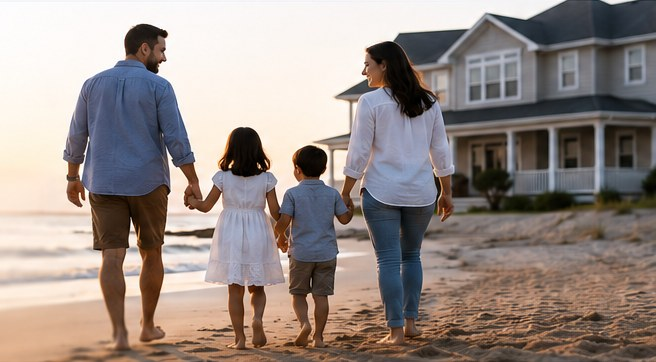
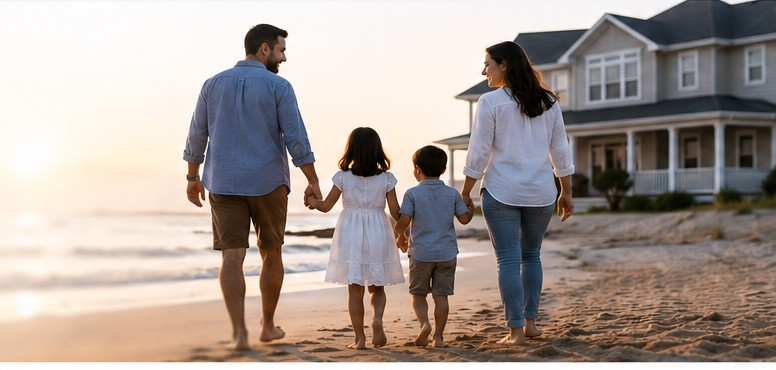
Add files via upload

diff --git a/index.html b/index.html
@@ -1,16 +1,161 @@
-<!doctype html><html lang="en"><head><meta charset="utf-8"><meta name="viewport" content="width=device-width,initial-scale=1"><meta name="description" content="BlueGene Insurance Services — personalized insurance solutions in California."><title>BlueGene Insurance Services</title><link rel="stylesheet" href="styles.css"></head><body>
-<header><div class="wrap nav"><img src="assets/bluegene-logo.png" alt="BlueGene Insurance Services"><nav><a href="#home" data-en="Home" data-zh="首页">Home</a><a href="#about" data-en="About Us" data-zh="关于我们">About Us</a><a href="#services" data-en="Insurance Solutions" data-zh="保险方案">Insurance Solutions</a><a href="#resources" data-en="Resources" data-zh="资料">Resources</a><a href="#contact" data-en="Contact Us" data-zh="联系我们">Contact Us</a><button id="lang">中文</button><a class="btn" href="mailto:agent@bluegeneins.com?subject=Quote Request" data-en="Get a Quote" data-zh="获取报价">Get a Quote</a></nav></div></header>
-<section id="home" class="hero"><div class="wrap herogrid"><div class="copy"><p class="eyebrow" data-en="PROTECT WHAT MATTERS MOST" data-zh="守护您最重要的一切">PROTECT WHAT MATTERS MOST</p><h1 data-en="Insurance Solutions You Can Trust" data-zh="值得信赖的保险方案">Insurance Solutions You Can Trust</h1><p class="lead" data-en="At BlueGene Insurance Services, we provide personalized insurance solutions to protect your family, your assets, and your future." data-zh="BlueGene Insurance Services 为您提供个性化保险方案，守护您的家庭、资产与未来。">At BlueGene Insurance Services, we provide personalized insurance solutions to protect your family, your assets, and your future.</p><div class="actions"><a class="btn" href="mailto:agent@bluegeneins.com?subject=Quote Request" data-en="Get a Free Quote" data-zh="免费获取报价">Get a Free Quote</a><a class="ghost" href="#services" data-en="Learn More" data-zh="了解更多">Learn More</a></div></div><div class="heroimg"></div></div></section>
-<section id="services"><div class="wrap layout"><div class="main"><p class="eyebrow center" data-en="OUR SERVICES" data-zh="我们的服务">OUR SERVICES</p><h2 class="title" data-en="Coverage for Life and Business" data-zh="生活与家庭的全面保障">Coverage for Life and Business</h2><div class="cards">
-<article><i>🚗</i><h3 data-en="Auto Insurance" data-zh="汽车保险">Auto Insurance</h3><p data-en="Coverage options designed to help protect your vehicles and drivers." data-zh="为您的车辆和驾驶人提供合适的保险保障。">Coverage options designed to help protect your vehicles and drivers.</p></article>
-<article><i>⌂</i><h3 data-en="Home Insurance" data-zh="房屋保险">Home Insurance</h3><p data-en="Protection for your home, personal property, and everyday peace of mind." data-zh="为房屋、个人财产及日常生活提供安心保障。">Protection for your home, personal property, and everyday peace of mind.</p></article>
-<article><i>▣</i><h3 data-en="Annuity" data-zh="年金保险">Annuity</h3><p data-en="Long-term income and retirement planning solutions for your future." data-zh="为退休生活及长期收入规划提供解决方案。">Long-term income and retirement planning solutions for your future.</p></article>
-<article><i>♥</i><h3 data-en="Life Insurance" data-zh="人寿保险">Life Insurance</h3><p data-en="Options that can help support your family's long-term financial security." data-zh="帮助您为家庭建立长期的财务保障。">Options that can help support your family's long-term financial security.</p></article>
-<a href="https://www.coveredca.com/" target="_blank"><article><i>♥</i><h3 data-en="Health Insurance" data-zh="健康保险">Health Insurance</h3><p data-en="Plans to help cover medical expenses and support your well-being." data-zh="帮助承担医疗费用，为您和家人的健康提供保障。">Plans to help cover medical expenses and support your well-being.</p></article></a>
-<a href="docs/Patriot-Exchange-Student-Chinese.pdf" target="_blank"><article><i>◎</i><h3 data-en="International Student Insurance" data-zh="国际留学生保险">International Student Insurance</h3><p data-en="Specialized coverage for international students studying in the U.S." data-zh="为在美国学习的国际学生提供专门的医疗保障选择。">Specialized coverage for international students studying in the U.S.</p></article></a>
-<a href="https://www.imglobal.com/img-producer-insurance-plans/patriot-america-plus?IMGAC=546873&svi=1" target="_blank"><article><i>✈</i><h3 data-en="Travel Medical Insurance" data-zh="旅行医疗保险">Travel Medical Insurance</h3><p data-en="Protection for unexpected medical events while you're traveling near or far." data-zh="为境内外旅行中的突发医疗需求提供保障选择。">Protection for unexpected medical events while you're traveling near or far.</p></article></a>
-<article><i>◇</i><h3 data-en="Medicare Insurance" data-zh="Medicare 医疗保险">Medicare Insurance</h3><p data-en="Guidance to help you understand Medicare coverage options." data-zh="帮助您了解并选择适合自己的 Medicare 保障方案。">Guidance to help you understand Medicare coverage options.</p></article>
-</div></div><aside id="contact"><h2 data-en="Get in Touch" data-zh="联系我们">Get in Touch</h2><p data-en="We're here to help you find the right coverage." data-zh="我们愿意帮助您找到合适的保险保障。">We're here to help you find the right coverage.</p><div class="lines"><a href="tel:+16266888030">☎　(626) 688-8030</a><a href="mailto:agent@bluegeneins.com">✉　agent@bluegeneins.com</a><span>◎　www.bluegeneins.com</span><span>●　Serving California</span></div><hr><h3 data-en="Scan to Connect with Us" data-zh="扫码添加微信">Scan to Connect with Us</h3><img src="assets/wechat-qr.jpg" alt="WeChat QR"><p data-en="Scan the QR code to add us on WeChat and get in touch instantly!" data-zh="扫描二维码添加微信，随时联系我们！">Scan the QR code to add us on WeChat and get in touch instantly!</p></aside></div></section>
-<section id="about" class="band"><div class="wrap"><h2 data-en="Personal Service. Clear Guidance." data-zh="贴心服务 · 清晰建议">Personal Service. Clear Guidance.</h2><p data-en="BlueGene Insurance Services helps individuals and families understand their insurance choices with clear, personalized support." data-zh="BlueGene Insurance Services 通过清晰、个性化的服务，帮助个人与家庭了解并选择合适的保险方案。">BlueGene Insurance Services helps individuals and families understand their insurance choices with clear, personalized support.</p></div></section>
-<section id="resources" class="resources"><div class="wrap"><h2 data-en="Resources" data-zh="保险资料">Resources</h2><a href="docs/Patriot-Travel-Medical-Chinese.pdf" target="_blank" data-en="Travel Medical Insurance — Chinese Brochure" data-zh="旅行医疗保险 — 中文资料">Travel Medical Insurance — Chinese Brochure</a><a href="docs/Patriot-Exchange-Student-Chinese.pdf" target="_blank" data-en="International Student Insurance — Chinese Brochure" data-zh="国际留学生保险 — 中文资料">International Student Insurance — Chinese Brochure</a></div></section>
-<footer><div class="wrap">© 2026 BlueGene Insurance Services · agent@bluegeneins.com</div></footer><script>const b=document.getElementById("lang");let z=false;b.onclick=()=>{z=!z;document.querySelectorAll("[data-en]").forEach(e=>e.textContent=z?e.dataset.zh:e.dataset.en);b.textContent=z?"English":"中文"}</script></body></html>
+<!doctype html>
+<html lang="en">
+<head>
+<meta charset="utf-8">
+<meta name="viewport" content="width=device-width,initial-scale=1">
+<title>BlueGene Insurance Services</title>
+<meta name="description" content="Personalized insurance solutions for individuals and families in California.">
+<link rel="stylesheet" href="styles.css">
+</head>
+<body>
+<header class="topbar">
+  <div class="shell nav">
+    <a class="logo" href="#home"><img src="assets/bluegene-logo.png" alt="BlueGene Insurance Services"></a>
+    <nav class="menu">
+      <a class="active" href="#home" data-en="Home" data-zh="首页">Home</a>
+      <a href="#about" data-en="About Us" data-zh="关于我们">About Us</a>
+      <a href="#services" data-en="Insurance Solutions" data-zh="保险方案">Insurance Solutions</a>
+      <a href="#resources" data-en="Resources" data-zh="资料">Resources</a>
+      <a href="#contact" data-en="Contact Us" data-zh="联系我们">Contact Us</a>
+      <button class="language" id="lang">中文</button>
+      <a class="quote-top" href="mailto:agent@bluegeneins.com?subject=Quote Request" data-en="Get a Quote" data-zh="获取报价">Get a Quote</a>
+    </nav>
+  </div>
+</header>
+
+<main>
+<section class="hero" id="home">
+  <div class="shell hero-inner">
+    <div class="hero-copy">
+      <div class="kicker" data-en="PROTECT WHAT MATTERS MOST" data-zh="守护您最重要的一切">PROTECT WHAT MATTERS MOST</div>
+      <h1 data-en="Insurance Solutions You Can Trust" data-zh="值得信赖的保险方案">Insurance Solutions You Can Trust</h1>
+      <p data-en="At BlueGene Insurance Services, we provide personalized insurance solutions to protect your family, your assets, and your future."
+         data-zh="BlueGene Insurance Services 为您提供个性化保险方案，守护您的家庭、资产与未来。">
+        At BlueGene Insurance Services, we provide personalized insurance solutions to protect your family, your assets, and your future.
+      </p>
+      <div class="hero-buttons">
+        <a class="primary" href="mailto:agent@bluegeneins.com?subject=Quote Request" data-en="Get a Free Quote" data-zh="免费获取报价">Get a Free Quote</a>
+        <a class="secondary" href="#services" data-en="Learn More" data-zh="了解更多">Learn More</a>
+      </div>
+    </div>
+    <div class="hero-photo" aria-label="Family"></div>
+  </div>
+</section>
+
+<section class="services" id="services">
+  <div class="shell services-grid">
+    <div class="service-main">
+      <div class="section-kicker" data-en="OUR SERVICES" data-zh="我们的服务">OUR SERVICES</div>
+      <h2 data-en="Coverage for Life and Business" data-zh="生活与家庭的全面保障">Coverage for Life and Business</h2>
+      <div class="gold-line"></div>
+
+      <div class="cards">
+        <article class="card">
+          <div class="round-icon">🚗</div>
+          <h3 data-en="Auto Insurance" data-zh="汽车保险">Auto Insurance</h3>
+          <p data-en="Coverage options designed to help protect your vehicles and drivers." data-zh="为您的车辆和驾驶人提供合适的保险保障。">Coverage options designed to help protect your vehicles and drivers.</p>
+        </article>
+
+        <article class="card">
+          <div class="round-icon home-icon">◆</div>
+          <h3 data-en="Home Insurance" data-zh="房屋保险">Home Insurance</h3>
+          <p data-en="Protection for your home, personal property, and everyday peace of mind." data-zh="为房屋、个人财产及日常生活提供安心保障。">Protection for your home, personal property, and everyday peace of mind.</p>
+        </article>
+
+        <article class="card">
+          <div class="round-icon">♥</div>
+          <h3 data-en="Life Insurance" data-zh="人寿保险">Life Insurance</h3>
+          <p data-en="Options that can help support your family's long-term financial security." data-zh="帮助您为家庭建立长期的财务保障。">Options that can help support your family's long-term financial security.</p>
+        </article>
+
+        <article class="card">
+          <div class="round-icon">$</div>
+          <h3 data-en="Annuity" data-zh="年金保险">Annuity</h3>
+          <p data-en="Long-term income and retirement planning solutions for your future." data-zh="为退休生活及长期收入规划提供解决方案。">Long-term income and retirement planning solutions for your future.</p>
+        </article>
+
+        <a class="card-link" href="https://www.coveredca.com/" target="_blank" rel="noopener">
+          <article class="card">
+            <div class="round-icon">✚</div>
+            <h3 data-en="Health Insurance" data-zh="健康保险">Health Insurance</h3>
+            <p data-en="Plans to help cover medical expenses and support your well-being." data-zh="帮助承担医疗费用，为您和家人的健康提供保障。">Plans to help cover medical expenses and support your well-being.</p>
+          </article>
+        </a>
+
+        <a class="card-link" href="docs/Patriot-Exchange-Student-Chinese.pdf" target="_blank">
+          <article class="card">
+            <div class="round-icon">◎</div>
+            <h3 data-en="International Student Insurance" data-zh="国际留学生保险">International Student Insurance</h3>
+            <p data-en="Specialized medical coverage options for international students and exchange participants." data-zh="为国际学生及交流项目参与者提供专门的医疗保障选择。">Specialized medical coverage options for international students and exchange participants.</p>
+          </article>
+        </a>
+
+        <a class="card-link" href="https://www.imglobal.com/img-producer-insurance-plans/patriot-america-plus?IMGAC=546873&svi=1" target="_blank" rel="noopener">
+          <article class="card">
+            <div class="round-icon">✈</div>
+            <h3 data-en="Travel Medical Insurance" data-zh="旅行医疗保险">Travel Medical Insurance</h3>
+            <p data-en="Temporary medical protection for individuals, families, and groups traveling outside their home country." data-zh="为个人、家庭及团体的国际旅行提供临时医疗保障选择。">Temporary medical protection for individuals, families, and groups traveling outside their home country.</p>
+          </article>
+        </a>
+
+        <article class="card">
+          <div class="round-icon">◇</div>
+          <h3 data-en="Medicare Insurance" data-zh="Medicare 医疗保险">Medicare Insurance</h3>
+          <p data-en="Guidance to help you understand Medicare coverage options." data-zh="帮助您了解并选择适合自己的 Medicare 保障方案。">Guidance to help you understand Medicare coverage options.</p>
+        </article>
+      </div>
+    </div>
+
+    <aside class="contact-card" id="contact">
+      <h2 data-en="Get in Touch" data-zh="联系我们">Get in Touch</h2>
+      <p class="intro" data-en="We're here to help you find the right coverage." data-zh="我们愿意帮助您找到合适的保险保障。">We're here to help you find the right coverage.</p>
+      <div class="contact-list">
+        <a href="tel:+16264744541">☎ <span>+1 (626) 474-4541</span></a>
+        <a href="mailto:agent@bluegeneins.com">✉ <span>agent@bluegeneins.com</span></a>
+        <span>◎ <span>www.bluegeneins.com</span></span>
+        <span>● <span>Serving California</span></span>
+      </div>
+      <div class="divider"></div>
+      <h3 data-en="Scan to Connect with Us" data-zh="扫码添加微信">Scan to Connect with Us</h3>
+      <img class="qr" src="assets/wechat-qr.jpg" alt="WeChat QR code">
+      <p class="qr-text" data-en="Scan the QR code to add us on WeChat and get in touch instantly!" data-zh="扫描二维码添加微信，随时联系我们！">Scan the QR code to add us on WeChat and get in touch instantly!</p>
+    </aside>
+  </div>
+</section>
+
+<section class="about" id="about">
+  <div class="shell about-grid">
+    <div>
+      <div class="section-kicker" data-en="ABOUT BLUEGENE" data-zh="关于 BLUEGENE">ABOUT BLUEGENE</div>
+      <h2 data-en="Insurance should feel understandable." data-zh="保险应该简单易懂。">Insurance should feel understandable.</h2>
+    </div>
+    <div>
+      <p data-en="BlueGene Insurance Services focuses on personal, transparent, and responsive service." data-zh="BlueGene Insurance Services 专注于个性化、透明且及时的保险服务。">BlueGene Insurance Services focuses on personal, transparent, and responsive service.</p>
+      <p data-en="We take time to understand your priorities and help you explore coverage options that fit your situation." data-zh="我们会认真了解您的需求，帮助您选择更适合自身情况的保险方案。">We take time to understand your priorities and help you explore coverage options that fit your situation.</p>
+    </div>
+  </div>
+</section>
+
+<section class="resources" id="resources">
+  <div class="shell resource-box">
+    <h2 data-en="Resources" data-zh="保险资料">Resources</h2>
+    <a href="docs/Patriot-Travel-Medical-Chinese.pdf" target="_blank" data-en="Travel Medical Insurance — Chinese Brochure" data-zh="旅行医疗保险 — 中文资料">Travel Medical Insurance — Chinese Brochure</a>
+    <a href="docs/Patriot-Exchange-Student-Chinese.pdf" target="_blank" data-en="International Student Insurance — Chinese Brochure" data-zh="国际留学生保险 — 中文资料">International Student Insurance — Chinese Brochure</a>
+  </div>
+</section>
+</main>
+
+<footer><div class="shell">© 2026 BlueGene Insurance Services</div></footer>
+
+<script>
+const langBtn=document.getElementById('lang');
+let isZh=false;
+langBtn.addEventListener('click',()=>{
+  isZh=!isZh;
+  document.documentElement.lang=isZh?'zh-CN':'en';
+  document.querySelectorAll('[data-en]').forEach(el=>{ el.textContent=isZh?el.dataset.zh:el.dataset.en; });
+  langBtn.textContent=isZh?'English':'中文';
+});
+</script>
+</body>
+</html>

diff --git a/styles.css b/styles.css
@@ -1,1 +1,1 @@
-*{box-sizing:border-box}html{scroll-behavior:smooth}body{margin:0;font-family:Arial,"Noto Sans SC",sans-serif;color:#111a2d}.wrap{width:min(1380px,92%);margin:auto}header{height:100px;border-bottom:1px solid #e7eaf0;background:#fff;position:sticky;top:0;z-index:9}.nav{height:100%;display:flex;align-items:center;justify-content:space-between}.nav>img{width:105px}.nav nav{display:flex;align-items:center;gap:36px}.nav nav>a:not(.btn){text-decoration:none;color:#0b1428;font-size:14px;font-weight:600}.nav button{border:0;background:none;color:#07347b;font-weight:700;cursor:pointer}.btn{background:linear-gradient(135deg,#0b3d8d,#061e55);color:#fff!important;text-decoration:none;padding:14px 27px;border-radius:6px;font-weight:700}.hero{background:#fffaf4}.herogrid{display:grid;grid-template-columns:55% 45%;min-height:365px}.copy{padding:42px 0}.eyebrow{color:#b27616;font-weight:800;font-size:14px}.copy h1{color:#0a3477;font-size:58px;line-height:1.05;letter-spacing:-2px;margin:12px 0}.lead{font-size:19px;line-height:1.5;color:#535e71;max-width:610px}.actions{display:flex;gap:20px;margin-top:18px}.ghost{padding:13px 27px;border:1.5px solid #0a3477;color:#0a3477;text-decoration:none;border-radius:6px;font-weight:700;background:#fff}.heroimg{background:linear-gradient(90deg,#fffaf4aa,transparent 20%),url("assets/hero-family.jpg") center/cover no-repeat}#services{padding:10px 0 42px}.layout{display:grid;grid-template-columns:1fr 310px;gap:55px}.main{padding-top:26px}.center,.title{text-align:center}.title{color:#0a3477;font-size:29px;margin:10px 0 32px}.title:after{content:"";display:block;width:44px;height:2px;background:#b27616;margin:16px auto}.cards{display:grid;grid-template-columns:repeat(4,1fr);gap:14px}.cards>a{text-decoration:none;color:inherit}.cards article{min-height:195px;border:1px solid #e4e8ef;border-radius:12px;padding:17px;text-align:center;background:#fff;box-shadow:0 8px 22px #17243b08}.cards i{width:54px;height:54px;border:1.5px solid #ccd7e8;border-radius:50%;display:grid;place-items:center;margin:0 auto 12px;font-style:normal;color:#0a3477;font-size:25px}.cards h3{font-size:15px;color:#07347b;margin:0 0 11px}.cards p{font-size:13.5px;line-height:1.5;color:#596274;margin:0}aside{background:linear-gradient(145deg,#f7f9fd,#edf3fb);border-radius:12px;padding:22px 28px;text-align:center}aside h2,aside h3{color:#0a3477}aside p{font-size:13px;line-height:1.5}.lines{display:flex;flex-direction:column;text-align:left;gap:10px;margin:18px 0}.lines a,.lines span{font-size:14px;color:#111a2d;text-decoration:none}aside hr{border:0;border-top:1px solid #cbd3df}aside img{width:190px;max-width:100%;border-radius:7px}.band{background:#f6f8fc;padding:50px 0}.band h2,.resources h2{color:#0a3477}.band p{color:#596274;max-width:800px;line-height:1.7}.resources{padding:45px 0}.resources a{display:inline-block;margin:8px 15px 8px 0;padding:13px 16px;border:1px solid #e4e8ef;border-radius:8px;text-decoration:none;color:#07347b;font-weight:700}footer{background:#072d64;color:white;padding:28px 0}@media(max-width:1050px){.nav nav{gap:15px}.layout{grid-template-columns:1fr}.cards{grid-template-columns:repeat(2,1fr)}aside{max-width:500px;margin:auto}.copy h1{font-size:46px}}@media(max-width:760px){header{height:auto}.nav{padding:10px 0}.nav nav>a:not(.btn){display:none}.herogrid{grid-template-columns:1fr}.heroimg{height:260px}.copy h1{font-size:40px}.cards{grid-template-columns:1fr 1fr}}@media(max-width:480px){.cards{grid-template-columns:1fr}.actions{flex-direction:column}}
+*{box-sizing:border-box}html{scroll-behavior:smooth}body{margin:0;color:#14213a;background:#fff;font-family:Arial,"Helvetica Neue","Noto Sans SC",sans-serif}.shell{width:min(1380px,92%);margin:0 auto}.topbar{height:100px;background:#fff;border-bottom:1px solid #e6e9ef;position:sticky;top:0;z-index:20}.nav{height:100%;display:flex;align-items:center;justify-content:space-between}.logo img{display:block;width:108px;max-height:84px;object-fit:contain}.menu{display:flex;align-items:center;gap:36px}.menu>a:not(.quote-top){color:#0b1428;text-decoration:none;font-size:14px;font-weight:600;white-space:nowrap}.menu>a.active{color:#0a3a83;border-bottom:2px solid #0a3a83;padding-bottom:8px}.language{border:0;background:none;color:#0a3a83;font-size:14px;font-weight:700;cursor:pointer}.quote-top,.primary{color:#fff;text-decoration:none;background:linear-gradient(135deg,#0b3c8b,#061f59);font-weight:700;border-radius:7px}.quote-top{padding:14px 25px}.hero{background:linear-gradient(90deg,#fff 0%,#fffaf2 48%,#fff 100%)}.hero-inner{height:365px;display:grid;grid-template-columns:56% 44%}.hero-copy{padding:43px 0 30px}.kicker,.section-kicker{color:#b17716;font-size:14px;font-weight:800}.hero-copy h1{margin:10px 0 14px;color:#0b3577;font-size:59px;line-height:1.05;letter-spacing:-2px;max-width:660px}.hero-copy p{font-size:19px;line-height:1.5;color:#515d70;max-width:610px;margin:0 0 18px}.hero-buttons{display:flex;gap:20px}.primary,.secondary{display:inline-flex;align-items:center;justify-content:center;padding:14px 27px;min-width:170px}.secondary{border:1.5px solid #0a377e;color:#0a377e;background:#fff;text-decoration:none;border-radius:7px;font-weight:700}.hero-photo{background-image:linear-gradient(90deg,#fffaf2 0%,rgba(255,250,242,.35) 10%,rgba(255,255,255,0) 25%),url("assets/hero-family.jpg");background-size:cover;background-position:center}.services{padding:8px 0 42px}.services-grid{display:grid;grid-template-columns:minmax(0,1fr) 315px;gap:58px;align-items:start}.service-main{padding-top:26px}.service-main>.section-kicker{text-align:center}.service-main>h2{margin:9px 0 0;text-align:center;color:#0a3476;font-size:29px}.gold-line{width:44px;height:2px;background:#b17716;margin:16px auto 14px}.cards{display:grid;grid-template-columns:repeat(4,minmax(0,1fr));gap:14px}.card-link{text-decoration:none;color:inherit}.card{height:195px;padding:17px 16px;border:1px solid #e3e7ee;border-radius:12px;text-align:center;background:#fff;box-shadow:0 7px 22px rgba(11,35,72,.04);transition:transform .15s,box-shadow .15s}.card:hover{transform:translateY(-2px);box-shadow:0 10px 26px rgba(11,35,72,.08)}.round-icon{width:55px;height:55px;border:1.5px solid #cad6e7;border-radius:50%;display:grid;place-items:center;margin:0 auto 12px;color:#0b3b82;font-size:25px;font-weight:700}.home-icon{font-size:18px}.card h3{margin:0 0 11px;color:#073579;font-size:15px}.card p{margin:0;color:#596276;font-size:13.5px;line-height:1.52}.contact-card{background:linear-gradient(145deg,#f7f9fd,#eef3fb);border-radius:13px;padding:22px 28px 20px;text-align:center;min-height:517px}.contact-card h2{margin:0 0 8px;color:#0a3476;font-size:23px}.contact-card .intro{font-size:14px;line-height:1.5;margin:0 auto 17px;max-width:220px}.contact-list{display:flex;flex-direction:column;gap:10px;text-align:left;margin:0 4px}.contact-list>a,.contact-list>span{display:flex;gap:10px;color:#101a2d;text-decoration:none;font-size:14px}.divider{height:1px;background:#c8d1dd;margin:18px 0}.contact-card h3{color:#0a3476;font-size:16px;margin:0 0 12px}.qr{display:block;width:190px;max-width:100%;margin:0 auto;border-radius:8px;background:#fff;padding:4px}.qr-text{font-size:12.5px;line-height:1.45;margin:10px auto 0;max-width:230px}.about{background:#f5f7fb;padding:60px 0}.about-grid{display:grid;grid-template-columns:1fr 1fr;gap:90px;align-items:start}.about h2{color:#0a3476;font-size:38px;line-height:1.05;margin:10px 0}.about p{color:#596276;line-height:1.7;margin:0 0 16px;font-size:16px}.resources{padding:48px 0}.resource-box h2{color:#0a3476}.resource-box a{display:inline-block;margin:0 15px 10px 0;padding:13px 17px;border:1px solid #e2e6ed;border-radius:8px;color:#0a3476;text-decoration:none;font-weight:700}footer{background:#072d64;color:#fff;padding:26px 0;font-size:14px}@media(max-width:1080px){.menu{gap:15px}.services-grid{grid-template-columns:1fr}.contact-card{max-width:450px;margin:0 auto;min-height:0}.cards{grid-template-columns:repeat(2,1fr)}.hero-copy h1{font-size:48px}}@media(max-width:760px){.topbar{height:auto}.nav{padding:10px 0}.logo img{width:85px}.menu>a:not(.quote-top){display:none}.hero-inner{height:auto;grid-template-columns:1fr}.hero-copy{padding:35px 0}.hero-copy h1{font-size:42px}.hero-photo{height:260px}.cards{grid-template-columns:1fr 1fr}.about-grid{grid-template-columns:1fr;gap:20px}}@media(max-width:480px){.cards{grid-template-columns:1fr}.hero-buttons{flex-direction:column}.primary,.secondary{width:100%}}
